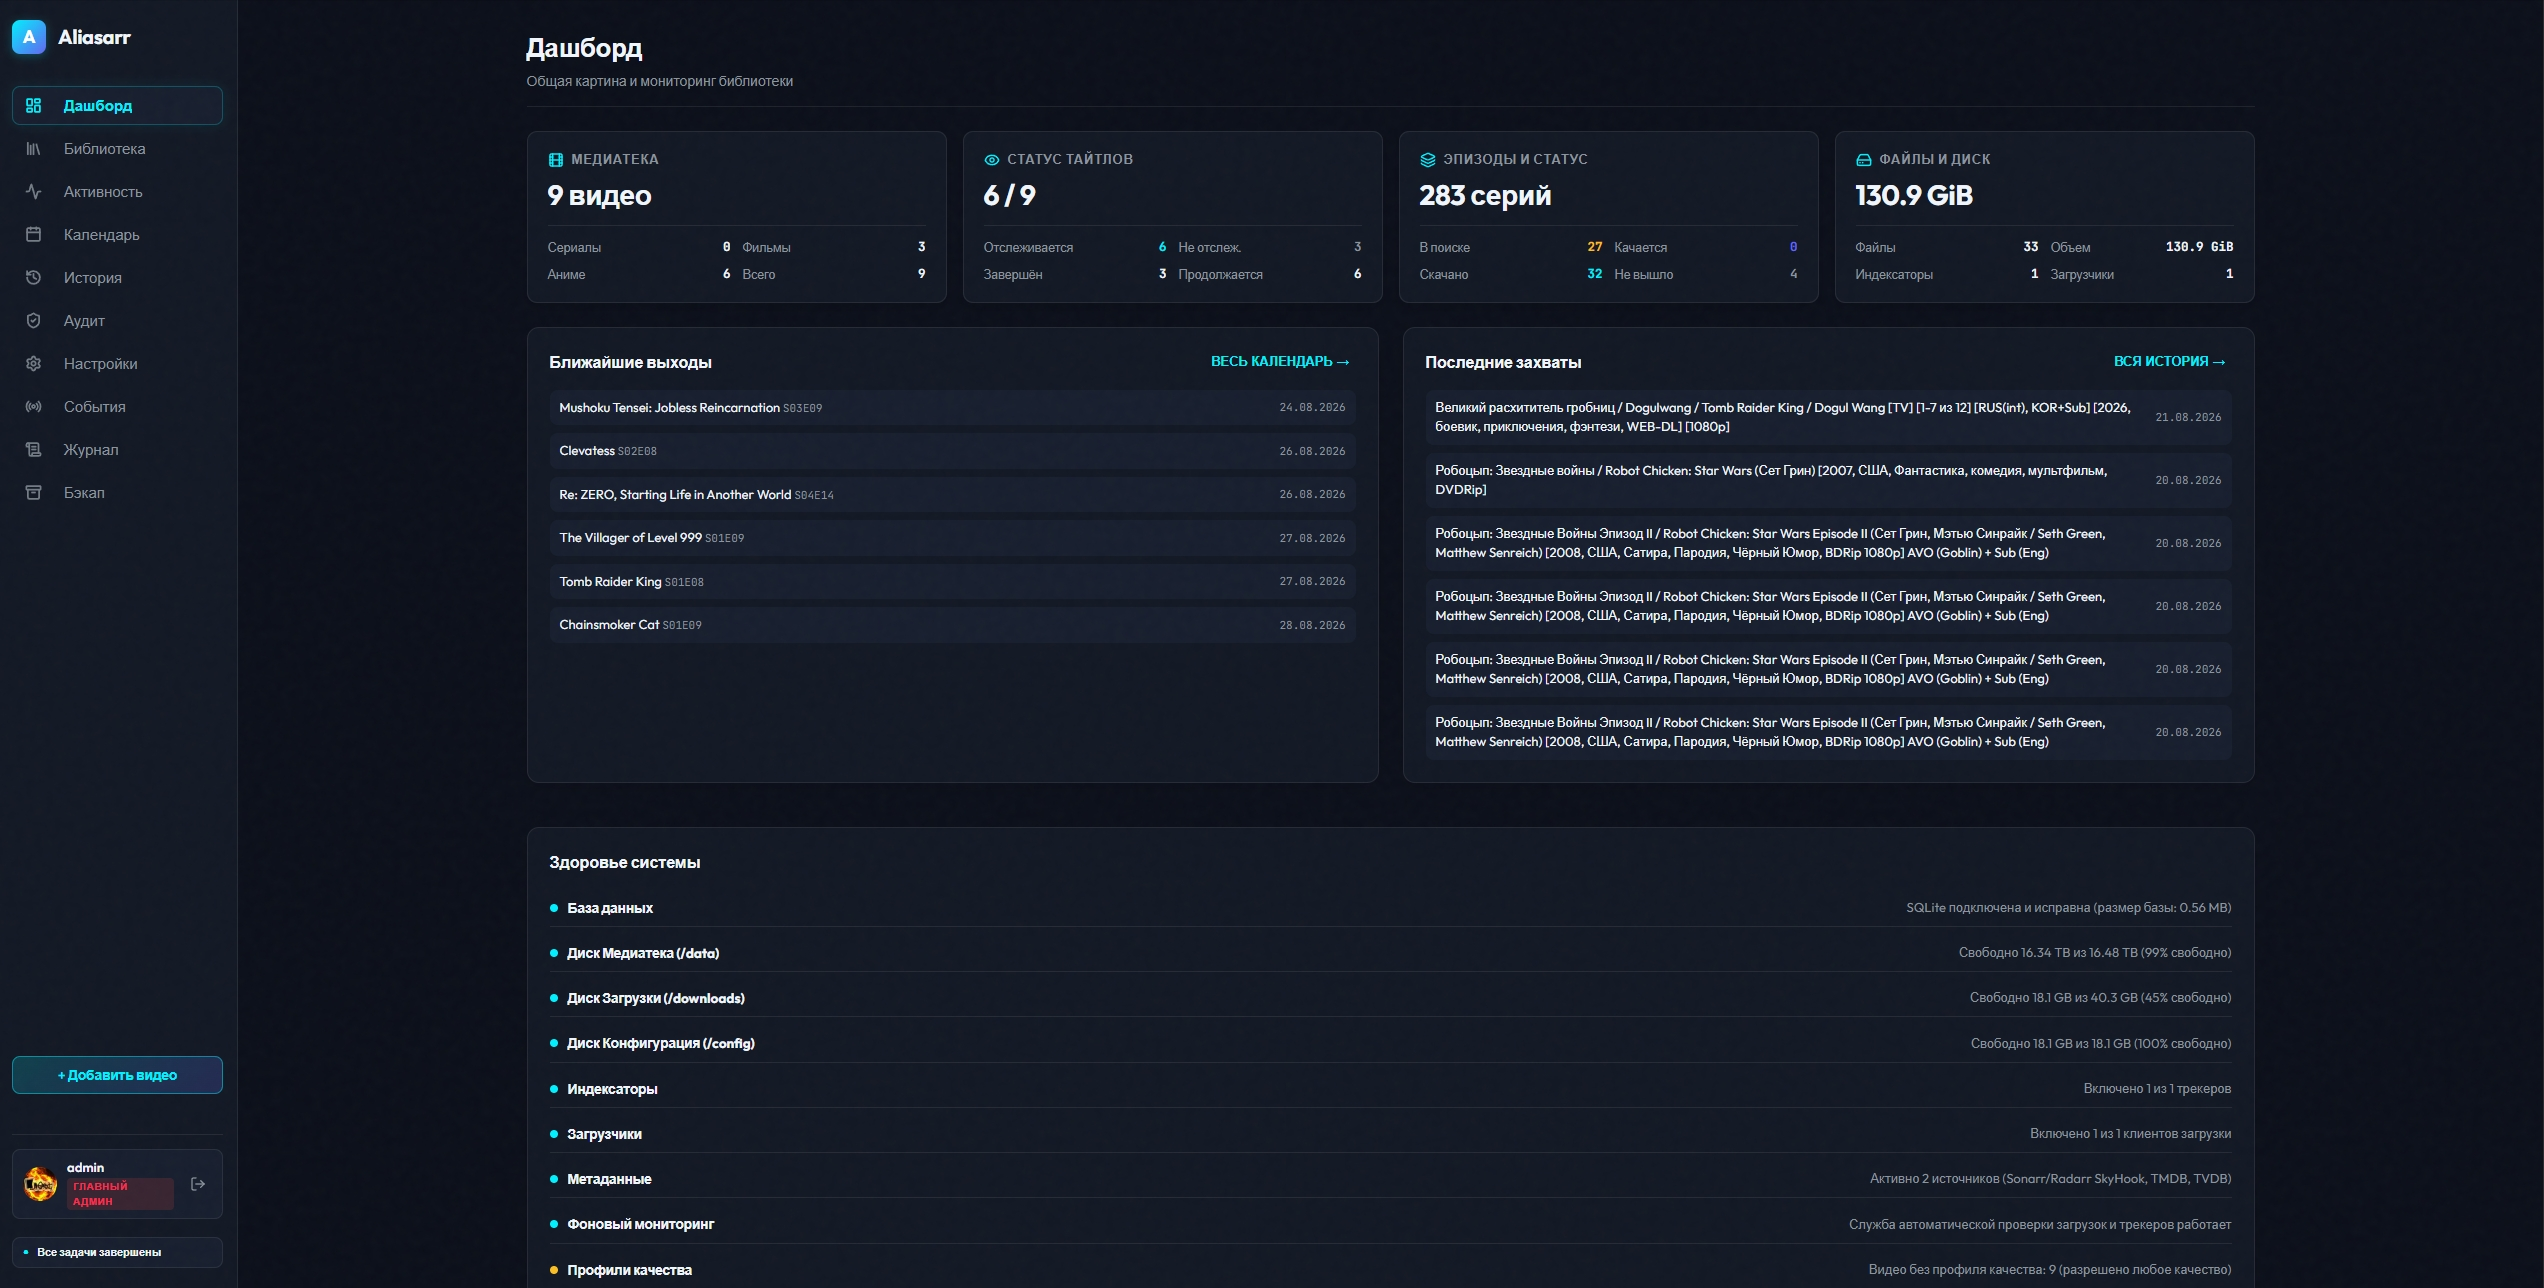
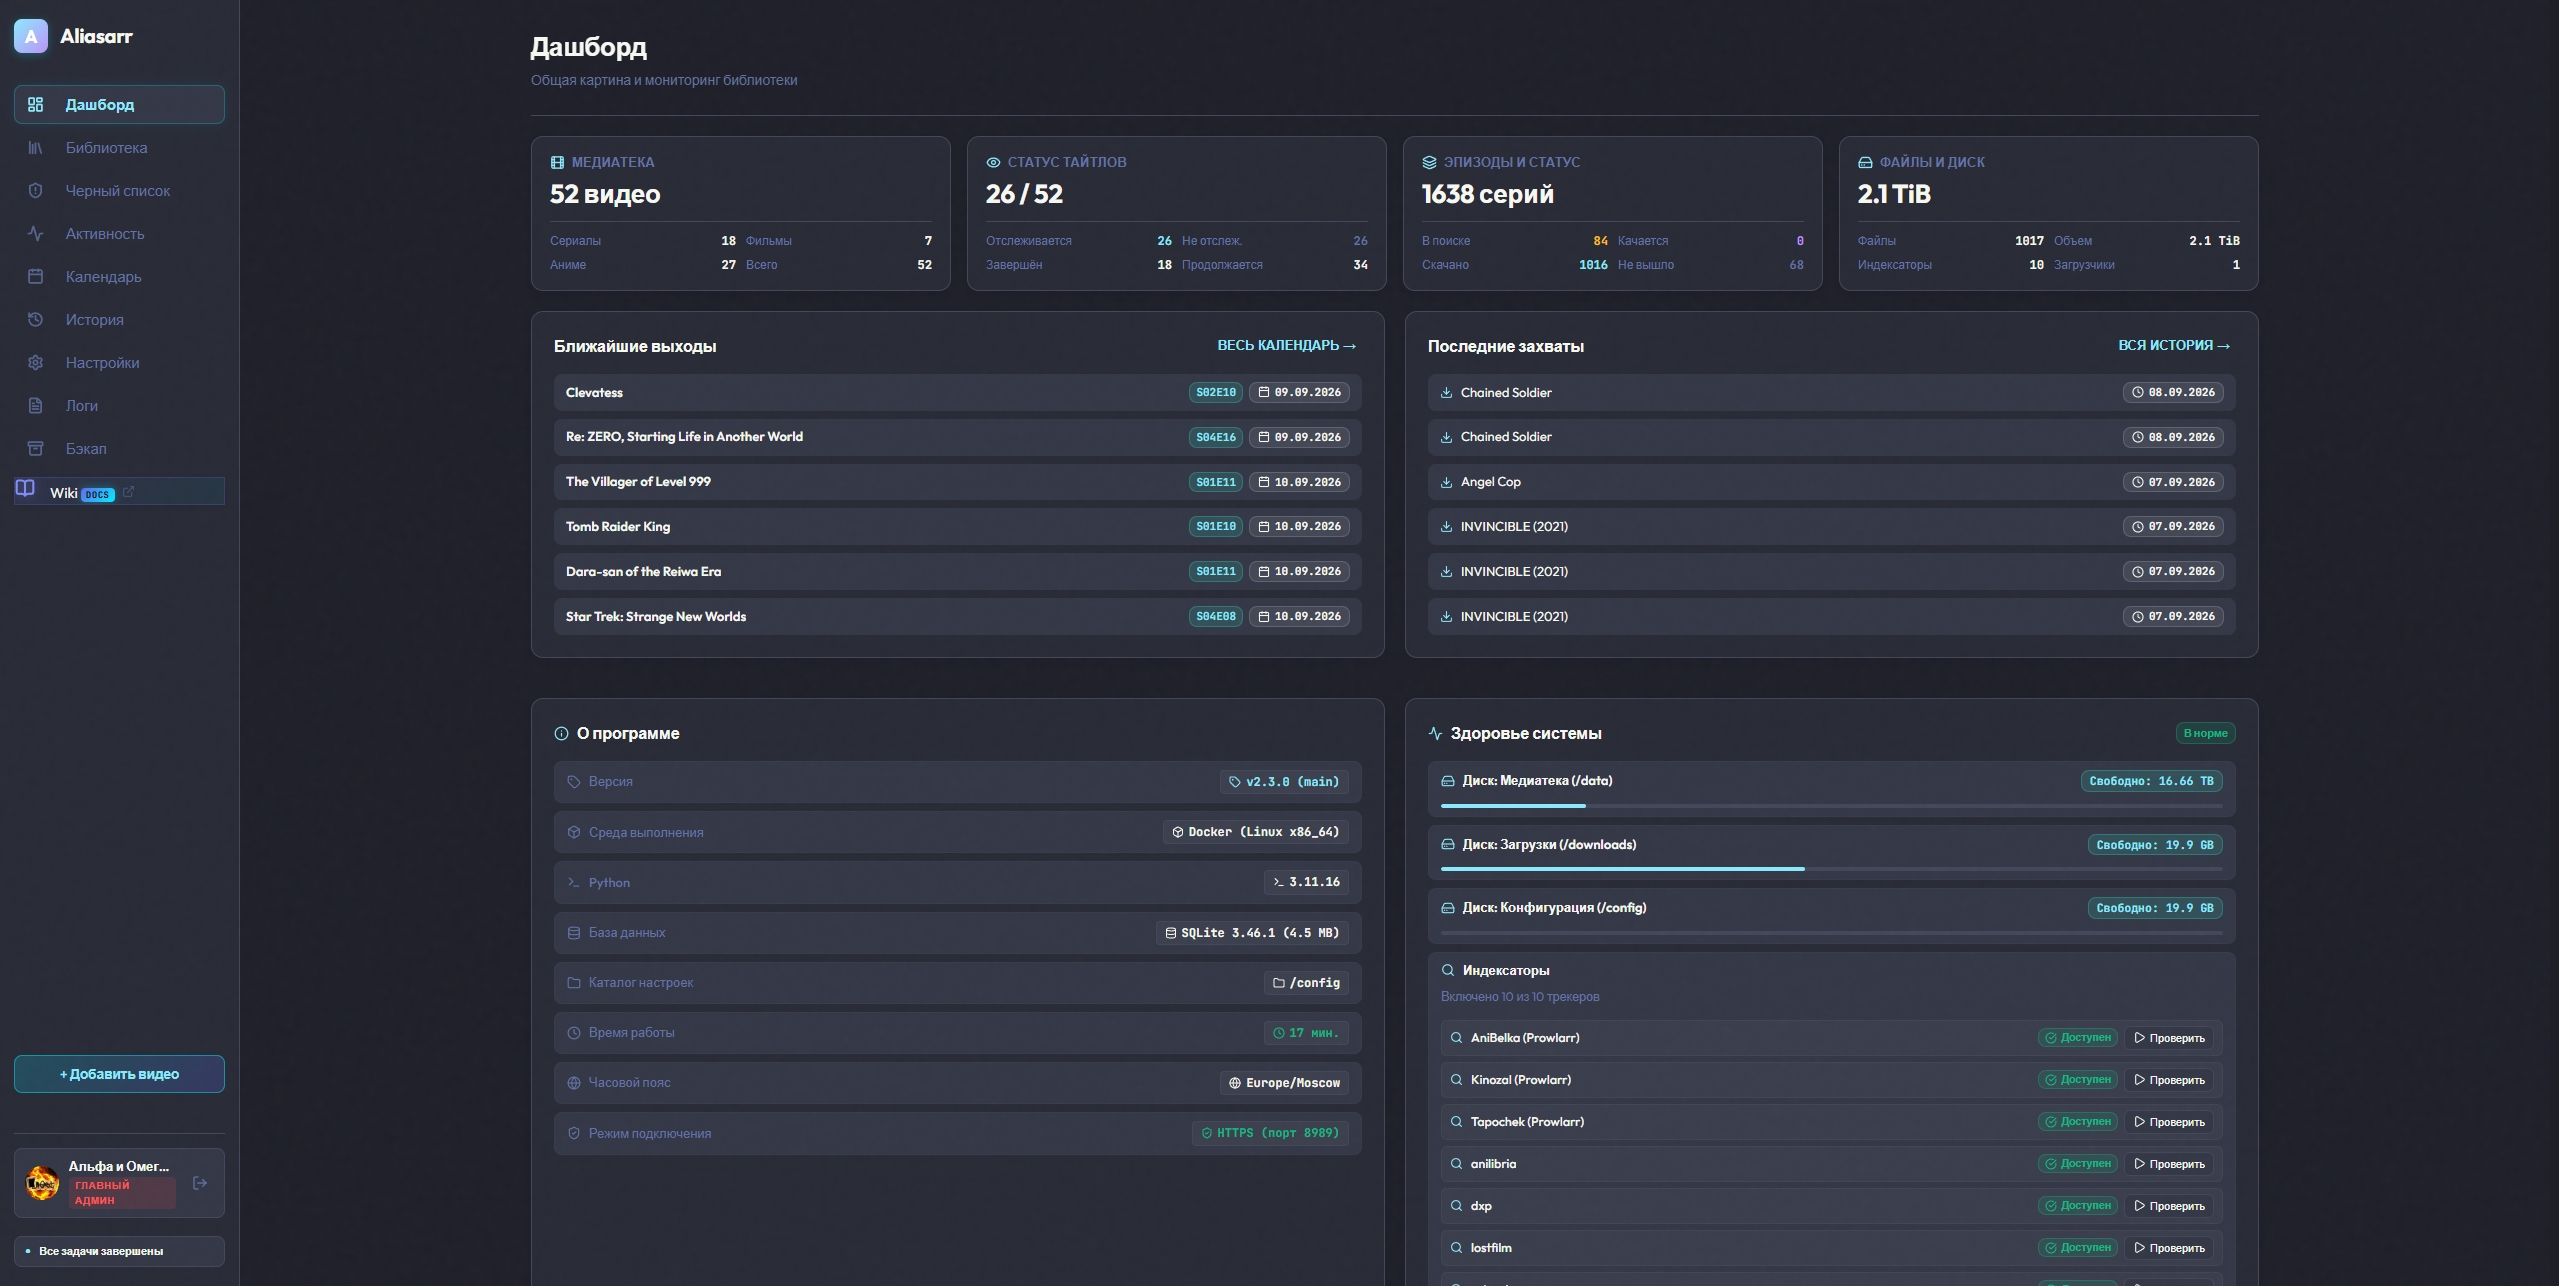
docs: update screenshots and documentation in README

diff --git a/README.md b/README.md
@@ -172,35 +172,41 @@
 Отображение постеров фильмов, сериалов и аниме с цветовой индикацией прогресса и статусов отслеживания:
 ![Медиатека](docs/screenshots/02_library.jpg)
 
+### Черный список
+Управление заблокированными релизами, исключенными из автопоиска, с отображением точных причин блокировки:
+![Черный список](docs/screenshots/03_blacklist.jpg)
+
 ### Мониторинг загрузок (Активность)
-Очередь активных загрузок во всех подключенных клиентах, скорость, прогресс и управление сидированием:
-![Активность](docs/screenshots/03_activity.jpg)
+Очередь активных загрузок во всех подключенных клиентах, статус сидирования, оставшееся время раздачи, ratio и прогресс:
+![Активность](docs/screenshots/04_activity.jpg)
 
 ### Календарь релизов
 Интерактивное расписание выхода эпизодов и кинопремьер с фильтрацией по статусам и категориям:
-![Календарь релизов](docs/screenshots/04_calendar.jpg)
+![Календарь релизов](docs/screenshots/05_calendar.jpg)
 
 ### История захватов
 Журнал найденных и отправленных в загрузчики раздач с отображением сработавшего поискового алиаса:
-![История захватов](docs/screenshots/05_history.jpg)
+![История захватов](docs/screenshots/06_history.jpg)
 
-### Журнал аудита безопасности
-Детальный аудит действий пользователей, входов в систему, изменений настроек и IP-адресов клиентов:
-![Аудит безопасности](docs/screenshots/06_audit.jpg)
-
-### Настройки системы и шаблоны путей
-Управление интерфейсом, API-ключами, источниками метаданных и правилами автоматического переименования:
+### Настройки системы и оформление
+Управление стилями интерфейса (Neo-Glass / Авангард Luxe), путями загрузок, шаблонами переименования и интеграциями:
 ![Настройки системы](docs/screenshots/07_settings.jpg)
 
-### События и системный журнал
-Мониторинг фоновых служб планировщика и просмотр диагностических логов приложения:
-![События системы](docs/screenshots/08_events.jpg)
-
-![Журнал логов](docs/screenshots/09_journal.jpg)
+### Логи и аудит системы
+Единый центр мониторинга: релиз-логи, сопоставление хардлинков, системные события, аудит действий и отладка парсера:
+![Логи и релиз-логи](docs/screenshots/08_logs.jpg)
 
 ### Резервное копирование
-Управление резервными копиями базы данных, кастомных форматов и настроек с возможностью восстановления:
-![Резервное копирование](docs/screenshots/10_backups.jpg)
+Управление резервными копиями базы данных, кастомных форматов и настроек с возможностью создания по расписанию:
+![Резервное копирование](docs/screenshots/09_backups.jpg)
+
+### Встроенная документация (Wiki)
+Интерактивная архитектурная и пользовательская документация, доступная прямо внутри веб-интерфейса:
+![Встроенная Wiki](docs/screenshots/10_wiki.jpg)
+
+### Документация API (Swagger / OpenAPI)
+Интерактивная спецификация REST API для интеграций и автоматизации:
+![Swagger API](docs/screenshots/11_api.jpg)
 
 ---
 
